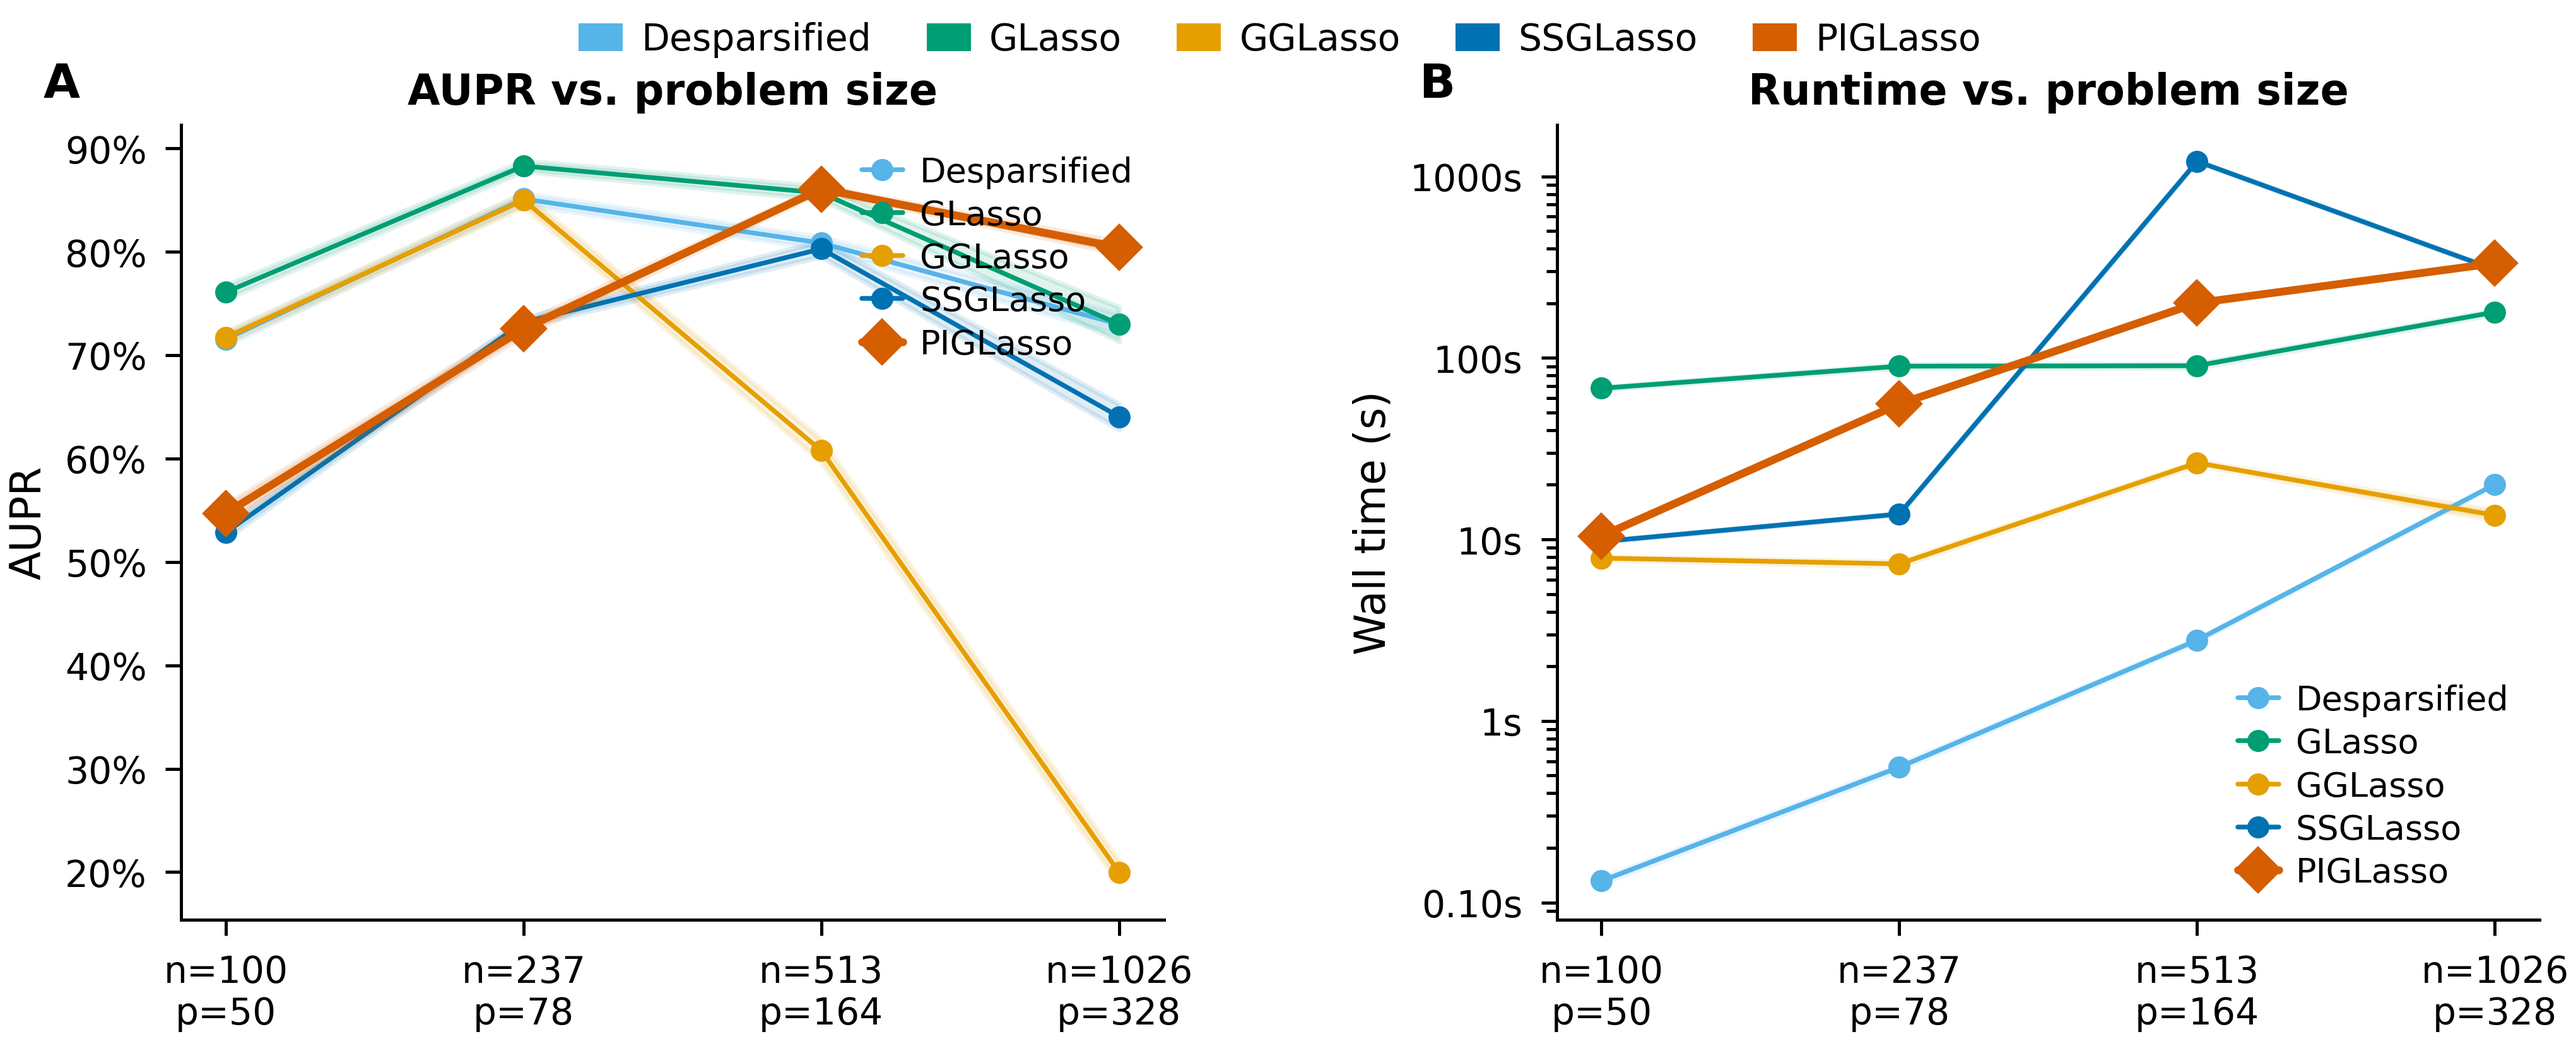
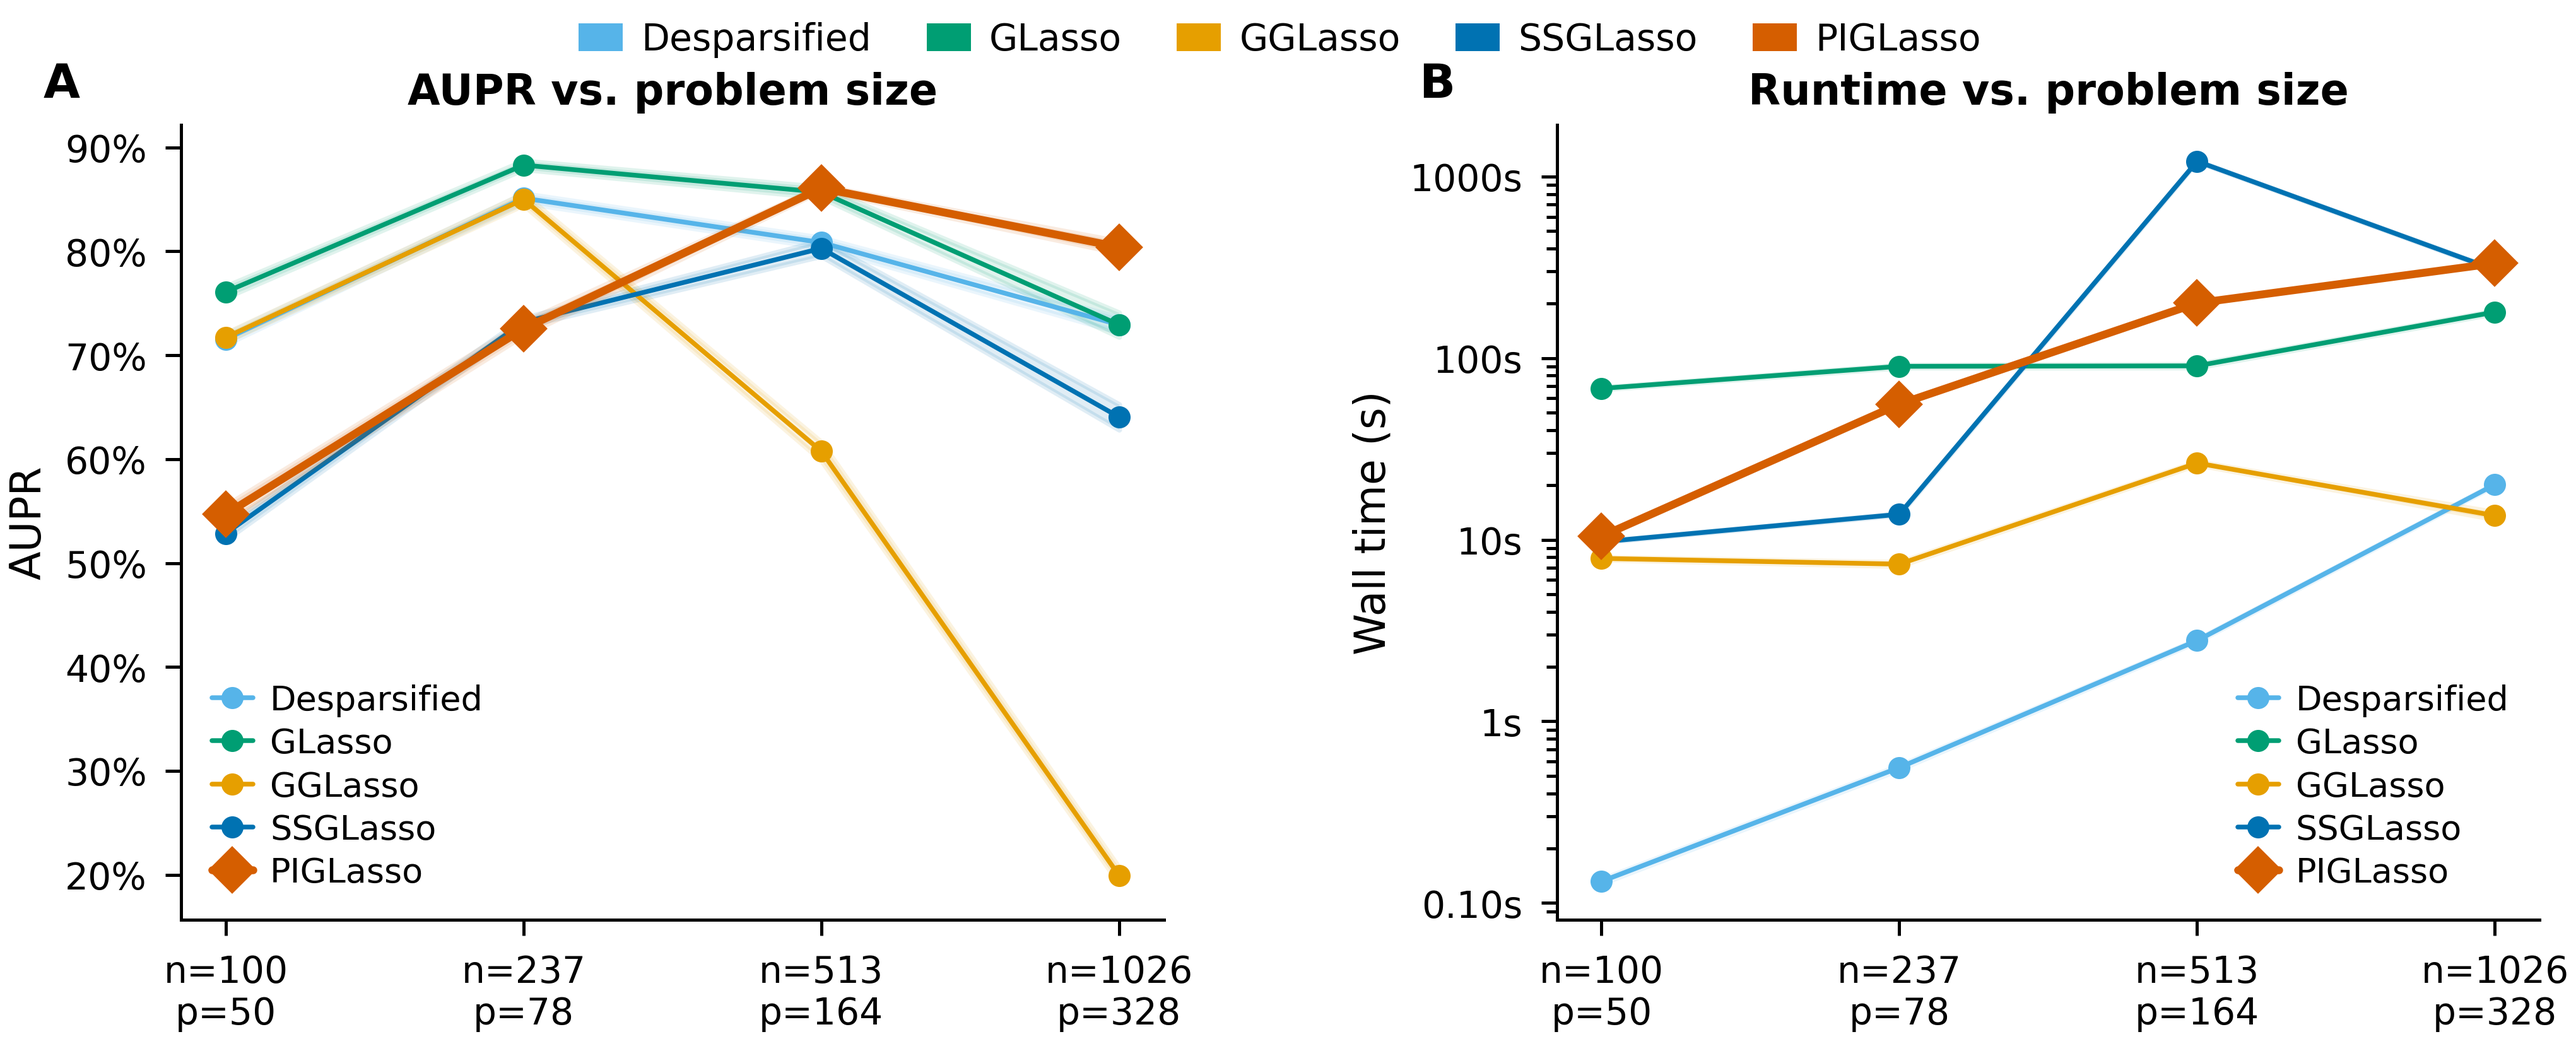
Move panel A legend to lower left in scalability figure

diff --git a/scripts/plot_scalability.py b/scripts/plot_scalability.py
@@ -79,7 +79,7 @@ def _line_panel(ax, df, metric, ylabel, title, log_y=False):
         )
     else:
         ax.yaxis.set_major_formatter(mticker.FuncFormatter(lambda v, _: f"{v:.0%}"))
-    ax.legend(loc="upper right" if not log_y else "lower right",
+    ax.legend(loc="lower left" if not log_y else "lower right",
               fontsize=6.5, handlelength=1.2, labelspacing=0.3)
 
 

diff --git a/README.md b/README.md
@@ -479,7 +479,7 @@ All-time line contributions (`git log --all --numstat`, added + deleted):
 
 | Rank | Contributor | Total Lines | Added | Deleted | Share |
 |:----:|-------------|------------:|------:|--------:|------:|
-| 🥇 | [youwillfindinfinity](https://github.com/youwillfindinfinity) | 494,916 | +292,538 | −202,378 | 99.9% |
+| 🥇 | [youwillfindinfinity](https://github.com/youwillfindinfinity) | 494,920 | +292,541 | −202,379 | 99.9% |
 | 🥈 | Zoe Azra | 628 | +561 | −67 | 0.1% |
 ---
 
